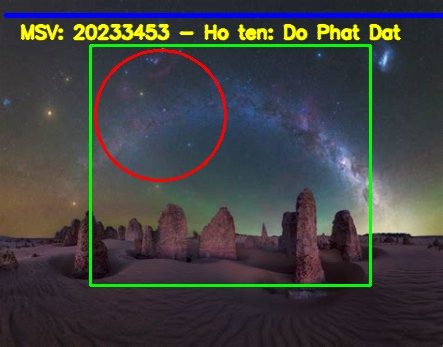
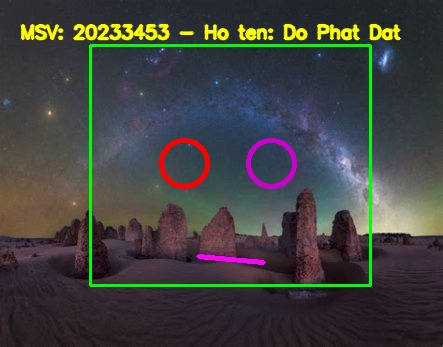
Thực hành chương 2: Xử lý ảnh kỹ thuật số

diff --git a/opencv-02.py b/opencv-02.py
@@ -1,16 +1,106 @@
-import cv2, random
+import cv2
+import numpy as np
 
-img = cv2.imread("conCho.png", 1)
+img = cv2.imread('hoang_hon_thuy_mac.png') 
 
-print(img)
-print(type(img))
+if img is None:
+    print("Lỗi: Không đọc được ảnh. Vui lòng kiểm tra lại đường dẫn file!")
+    exit()
 
-print(img.shape)
+height, width, channels = img.shape
+print(f"Kích thước ảnh gốc: {width}x{height}, Kênh màu: {channels}")
 
-# for i in range(100):
-#     for j in range(img.shape[1]):
-#         img[i][j]=[random.randint(0, 255),random.randint(0, 255),random.randint(0, 255)]
+# R-G-B
+B, G, R = cv2.split(img)
 
-vungchon = img[0:100]
-cv2.imshow("anh", img)
+cv2.imshow("1. Kenh Red (R)", R)
+cv2.imshow("1. Kenh Green (G)", G)
+cv2.imshow("1. Kenh Blue (B)", B)
+
+# Chuyển ảnh màu RGB thành ảnh xám theo công thức trung bình cộng
+img_float = img.astype(np.float32)
+gray_avg = (img_float[:,:,2] + img_float[:,:,1] + img_float[:,:,0]) / 3.0
+gray_avg = gray_avg.astype(np.uint8) # Ép kiểu về số nguyên 8-bit
+
+# Chuyển ảnh màu RGB thành ảnh xám theo phương pháp trọng số (Luminosity)
+gray_lum_float = 0.299 * R.astype(np.float32) + 0.587 * G.astype(np.float32) + 0.114 * B.astype(np.float32)
+gray_lum = gray_lum_float.astype(np.uint8)
+
+_, binary_avg = cv2.threshold(gray_avg, 127, 255, cv2.THRESH_BINARY)
+_, binary_lum = cv2.threshold(gray_lum, 127, 255, cv2.THRESH_BINARY)
+
+cv2.imshow("2. Xam (Trung binh cong)", gray_avg)
+cv2.imshow("2. Xam (Trong so Luminosity)", gray_lum)
+cv2.imshow("2. Nhi phan (Tu anh Luminosity)", binary_lum)
+
+# HSV
+R_norm = R.astype(np.float32) / 255.0
+G_norm = G.astype(np.float32) / 255.0
+B_norm = B.astype(np.float32) / 255.0
+
+Cmax = np.maximum(np.maximum(R_norm, G_norm), B_norm)
+Cmin = np.minimum(np.minimum(R_norm, G_norm), B_norm)
+delta = Cmax - Cmin
+
+H = np.zeros_like(Cmax)
+
+with np.errstate(divide='ignore', invalid='ignore'):
+    mask_r = (Cmax == R_norm) & (delta != 0)
+
+    H[mask_r] = 60 * (((G_norm[mask_r] - B_norm[mask_r]) / delta[mask_r]) % 6)
+    
+    mask_g = (Cmax == G_norm) & (delta != 0)
+    H[mask_g] = 60 * (((B_norm[mask_g] - R_norm[mask_g]) / delta[mask_g]) + 2)
+    
+    mask_b = (Cmax == B_norm) & (delta != 0)
+    H[mask_b] = 60 * (((R_norm[mask_b] - G_norm[mask_b]) / delta[mask_b]) + 4)
+
+S = np.zeros_like(Cmax)
+with np.errstate(divide='ignore', invalid='ignore'):
+    mask_s = Cmax != 0
+    S[mask_s] = delta[mask_s] / Cmax[mask_s]
+
+V = Cmax
+
+H_cv2 = (H / 2.0).astype(np.uint8)
+S_cv2 = (S * 255.0).astype(np.uint8)
+V_cv2 = (V * 255.0).astype(np.uint8)
+
+img_hsv = cv2.merge((H_cv2, S_cv2, V_cv2))
+cv2.imshow("3. Mo hinh HSV", img_hsv)
+
+# CMY
+C = 255 - R
+M = 255 - G
+Y = 255 - B
+
+img_cmy = cv2.merge((Y, M, C)) 
+cv2.imshow("3. Mo hinh CMY", img_cmy)
+
+# CMYK
+R_norm = R.astype(float) / 255.0
+G_norm = G.astype(float) / 255.0
+B_norm = B.astype(float) / 255.0
+
+# Tìm K
+K = 1 - np.maximum(np.maximum(R_norm, G_norm), B_norm)
+
+# Tìm CMY mới và bỏ qua cảnh báo 0
+with np.errstate(divide='ignore', invalid='ignore'):
+    C_cmyk = (1 - R_norm - K) / (1 - K)
+    M_cmyk = (1 - G_norm - K) / (1 - K)
+    Y_cmyk = (1 - B_norm - K) / (1 - K)
+    
+    C_cmyk[K == 1] = 0
+    M_cmyk[K == 1] = 0
+    Y_cmyk[K == 1] = 0
+
+C_print = (C_cmyk * 255).astype(np.uint8)
+M_print = (M_cmyk * 255).astype(np.uint8)
+Y_print = (Y_cmyk * 255).astype(np.uint8)
+K_print = (K * 255).astype(np.uint8)
+
+cv2.imshow("3. CMYK - Kenh K (Black)", K_print)
+
 cv2.waitKey(0)
+cv2.destroyAllWindows()

diff --git a/opencv-01.py b/opencv-01.py
@@ -2,14 +2,14 @@ import cv2
 
 print("Phiên bản OpenCV:", cv2.__version__)
 
-# Đọc file ảnh màu và kiểm tra đường dẫn
+# Đọc file ảnh và kiểm tra đường dẫn
 img = cv2.imread("anh_phong_canh.png")
 
 if img is None:
     print("Lỗi: Không tìm thấy file ảnh trong thư mục hiện tại!")
     exit()
 
-# Hiển thị kích thước ảnh: (Chiều cao, Chiều rộng, Số kênh màu)
+# Hiển thị kích thước ảnh
 height, width, channels  = img.shape 
 print(f"Kích thước ảnh gốc: Cao = {height}px, Rộng = {width}px, Kênh màu = {channels}")
 print(img.shape)
@@ -17,7 +17,7 @@ print(img.shape)
 # Hiển thị ảnh gốc
 cv2.imshow("Anh Goc", img)
 
-# Tăng/giảm kích thước ảnh (32x32, 128x128, 256x256, 512x512)
+# Tăng/giảm kích thước ảnh
 img_32 = cv2.resize(img, (32, 32), interpolation=cv2.INTER_AREA)
 img_128 = cv2.resize(img, (128, 128), interpolation=cv2.INTER_AREA)
 img_256 = cv2.resize(img, (256, 256), interpolation=cv2.INTER_AREA)
@@ -27,25 +27,22 @@ img_512 = cv2.resize(img, (512, 512), interpolation=cv2.INTER_LINEAR)
     Chuyển từ BGR sang Grayscale bằng cv2.cvtColor()'''
 gray_img = cv2.cvtColor(img, cv2.COLOR_BGR2GRAY) 
 
-''' 
-    Ý nghĩa:
-    Cộng thêm cờ cv2.THRESH_OTSU.  
-    OpenCV sẽ phớt lờ số 0 ở vị trí ranh giới và tự động thuật toán tìm ra con số chia đôi ảnh đẹp nhất
- '''
 nguong_thong_minh, binary_img = cv2.threshold(gray_img, 0, 255, cv2.THRESH_BINARY + cv2.THRESH_OTSU)
 print("Ngưỡng OpenCV tự động tính ra là:", nguong_thong_minh)
 
-# Vẽ hình và chèn thông tin sinh viên lên bản sao của ảnh
+# Vẽ hình và chèn thông tin lên bản sao của ảnh
 img_draw = img.copy()
 
-# Vẽ đường thẳng ngang (Màu xanh dương: B=255, G=0, R=0)
-cv2.line(img_draw, (5, 15), (450, 15), (255, 0, 0), thickness=3)
+# Vẽ đường thẳng ngang
+cv2.line(img_draw, (198, 256), (263, 262), (255, 0, 255), thickness=3)
 
-# Vẽ hình chữ nhật bao quanh đối tượng (Màu xanh lá: B=0, G=255, R=0)
+# Vẽ hình chữ nhật
 cv2.rectangle(img_draw, (90, 45), (370, 285), (0, 255, 0), thickness=2)
 
-# Vẽ hình tròn đánh dấu vùng đầu (Màu đỏ: B=0, G=0, R=255)
-cv2.circle(img_draw, (160, 115), 65, (0, 0, 255), thickness=2)
+# Vẽ hình tròn
+cv2.circle(img_draw, (184, 163), 23, (0, 0, 255), thickness=3)
+
+cv2.circle(img_draw, (271, 163), 23, (204, 0, 204), thickness=3)
 
 # Chèn mã sinh viên và họ tên
 cv2.putText(
@@ -65,7 +62,7 @@ cv2.imshow("Resize 128x128", img_128)
 cv2.imshow("Resize 256x256", img_256)
 cv2.imshow("Anh Xam", gray_img)
 cv2.imshow("Anh Nhi Phan", binary_img)
-cv2.imshow("Anh Ve Hinh Va Chen Chu", img_draw)
+cv2.imshow("Anh Chen Chu", img_draw)
 
 # Lưu tất cả ảnh đã thay đổi ra file mới
 cv2.imwrite("anh_32x32.png", img_32)

diff --git a/tempCodeRunnerFile.py b/tempCodeRunnerFile.py
@@ -1,0 +1,1 @@
+_norm = R.astype(np.float32) / 255.0
